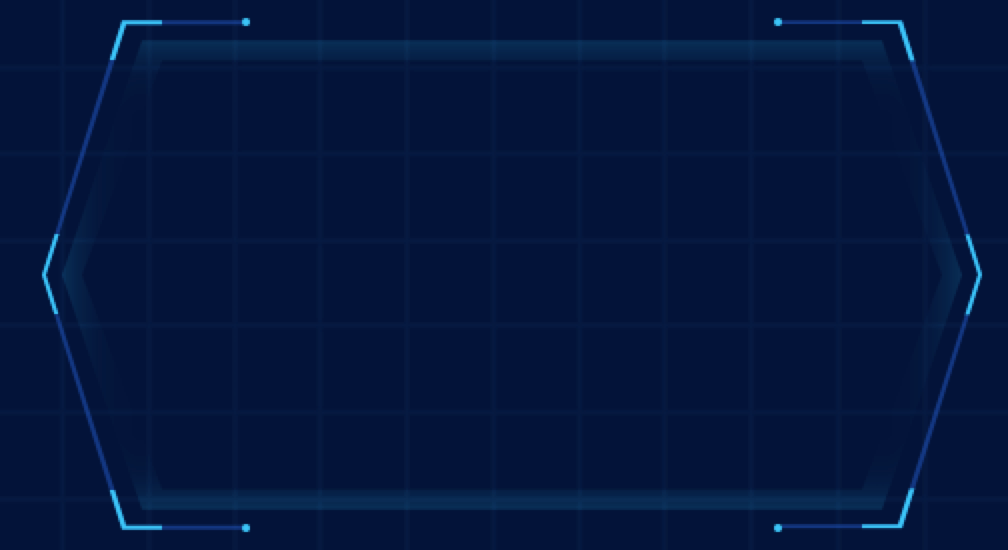
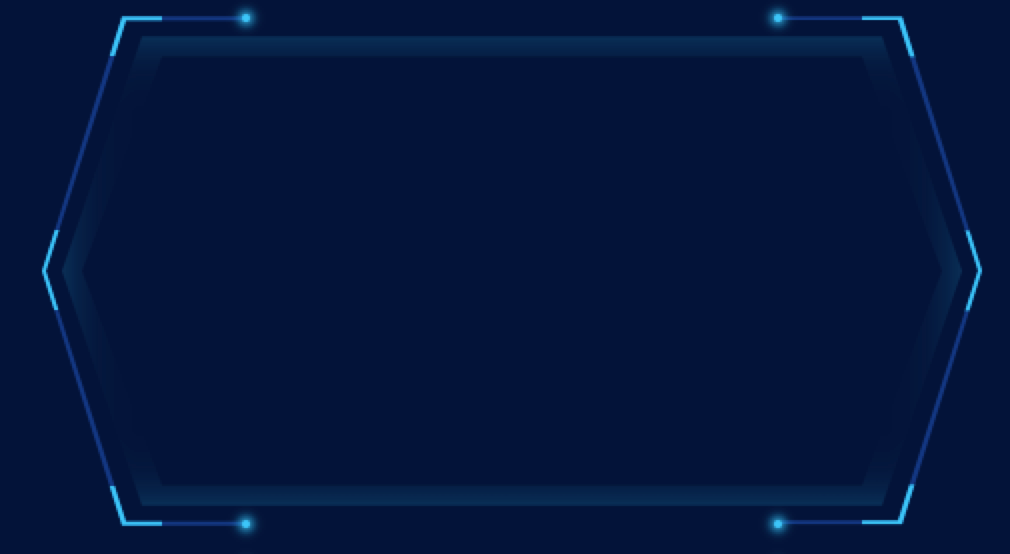
fix: img

diff --git a/src/packages/YlBorder1/index.vue b/src/packages/YlBorder1/index.vue
@@ -4,13 +4,11 @@
  * @Author: WangYuLin
  * @Date: 2021-07-09 16:31:23
  * @LastEditors: WangYuLin
- * @LastEditTime: 2021-08-09 13:11:31
+ * @LastEditTime: 2021-08-09 15:26:15
 -->
 
 <template>
     <div class="magic-border-container" :style="containerStyle">
-        <!-- <div class="angle-left-top"></div>
-        <div class="angle-right-bottom"></div> -->
         <div class="magic-border-top"></div>
         <div class="magic-border-left"></div>
         <div class="magic-border-bottom">
@@ -28,23 +26,30 @@ export default {
     components: {},
     props: {
         width: {
-            type: String
+            type: Number
         },
         height: {
-            type: String
+            type: Number
         },
         polyNum: {
             type: Number,
             default: 4
-        }
+        },
+        angleColor: {
+            type: String,
+            default: '#1aabff'
+        },
+        mainColor: {
+            type: String,
+            default: '#5089a6'
+        },
+        polyColor: {
+            type: String,
+            default: '#0adaff'
+        },
     },
     data() {
-      return {
-          containerStyle: {
-              'width': this.width + 'px',
-              'height': this.height + 'px'
-          }
-      };
+      return {};
     },
     watch: {},
     computed: {
@@ -54,6 +59,15 @@ export default {
                 result.push(i)
             }
             return result
+        },
+        containerStyle() {
+            return {
+                'width': this.width ? this.width + 'px' : '100%',
+                'height': this.height ? this.height + 'px' : '100%',
+                '--color-angle': this.angleColor,
+                '--color-main': this.mainColor,
+                '--color-poly': this.polyColor
+            }
         }
     },
     methods: {},
@@ -63,10 +77,15 @@ export default {
 };
 </script>
 <style lang="scss" scoped>
+$color-angle: var(--color-angle);
+$color-main: var(--color-main);
+$color-poly: var(--color-poly);
+.border_normal {
+    position: absolute;
+    background: $color-angle;
+}
 .magic-border-container {
     position: relative;
-    width: 350px;
-    height: 320px;
     clip-path: polygon(20% 0, 100% 0, 100% 75%, 74% 100%, 0 100%, 0 20%);
     padding-left: 10px;
     padding-top: 20px;
@@ -75,37 +94,34 @@ export default {
 }
 
 .magic-border-top {
-    position: absolute;
     top: 0;
     right: 0;
     width: 100%;
     height: 15px;
-    background: #1AABFF;
-    clip-path: polygon(85% calc(100% - 2px), 88% 50%, 100% 50%, 100% 100%, 0 100%, 0 calc(100% - 2px))
+    clip-path: polygon(85% calc(100% - 2px), 88% 50%, 100% 50%, 100% 100%, 0 100%, 0 calc(100% - 2px));
+    @extend .border_normal;
 }
 
 .magic-border-left {
-    position: absolute;
     left: 0;
     top: 0;
     width: 8px;
     height: 50%;
-    background: #1AABFF;
     clip-path: polygon(100% 0, 100% 100%, calc(100% - 2px) 100%, calc(100% - 2px) 65%, 0 65%, 0 0);
+    @extend .border_normal;
 }
 
 .magic-border-bottom {
-    position: absolute;
     bottom: 0;
     left: 10px;
     width: 75%;
     height: 15px;
-    background: #1AABFF;
     padding: 0 15px;
+    @extend .border_normal;
 }
 
 .magic-border-bottom-poly {
-    background: #0ADAFF;
+    background: $color-poly;
     width: 35px;
     height: 100%;
     clip-path: polygon(25% 0%, 100% 0%, 75% 60%, 0% 60%);
@@ -113,29 +129,9 @@ export default {
 }
 
 .magic-border-content {
-    background: #5089a6;
+    background: $color-main;
     width: 100%;
     height: 100%;
-    border: 2px solid #1AABFF;
-}
-
-.angle-left-top {
-    position: absolute;
-    height: 48px;
-    width: 2px;
-    background: rgba(0, 48, 67, 0.9);
-    top: 13px;
-    left: 20px;
-    transform: rotate(49deg);
-}
-
-.angle-right-bottom {
-    position: absolute;
-    height: 86px;
-    width: 2px;
-    background: #1AABFF;
-    right: 31.6px;
-    bottom: -1px;
-    transform: rotate(50.3deg);
+    border: 2px solid $color-angle;
 }
 </style>

diff --git a/src/App.vue b/src/App.vue
@@ -4,18 +4,18 @@
  * @Author: WangYuLin
  * @Date: 2021-07-09 15:58:55
  * @LastEditors: WangYuLin
- * @LastEditTime: 2021-08-09 13:33:48
+ * @LastEditTime: 2021-08-09 15:22:56
 -->
 <template>
   <div id="app">
-    <clip-card :height="400" :width="500">
+    <clip-card>
       111
     </clip-card>
   </div>
 </template>
 
 <script>
-import clipCard from './packages/YlBorder2/index.vue'
+import clipCard from './packages/YlBorder1/index.vue'
 export default {
   name: 'app',
   components: {
@@ -36,6 +36,8 @@ export default {
   text-align: center;
   color: #2c3e50;
   margin-top: 60px;
+  width: 50%;
+  height: 600px;
 }
 
 h1, h2 {
